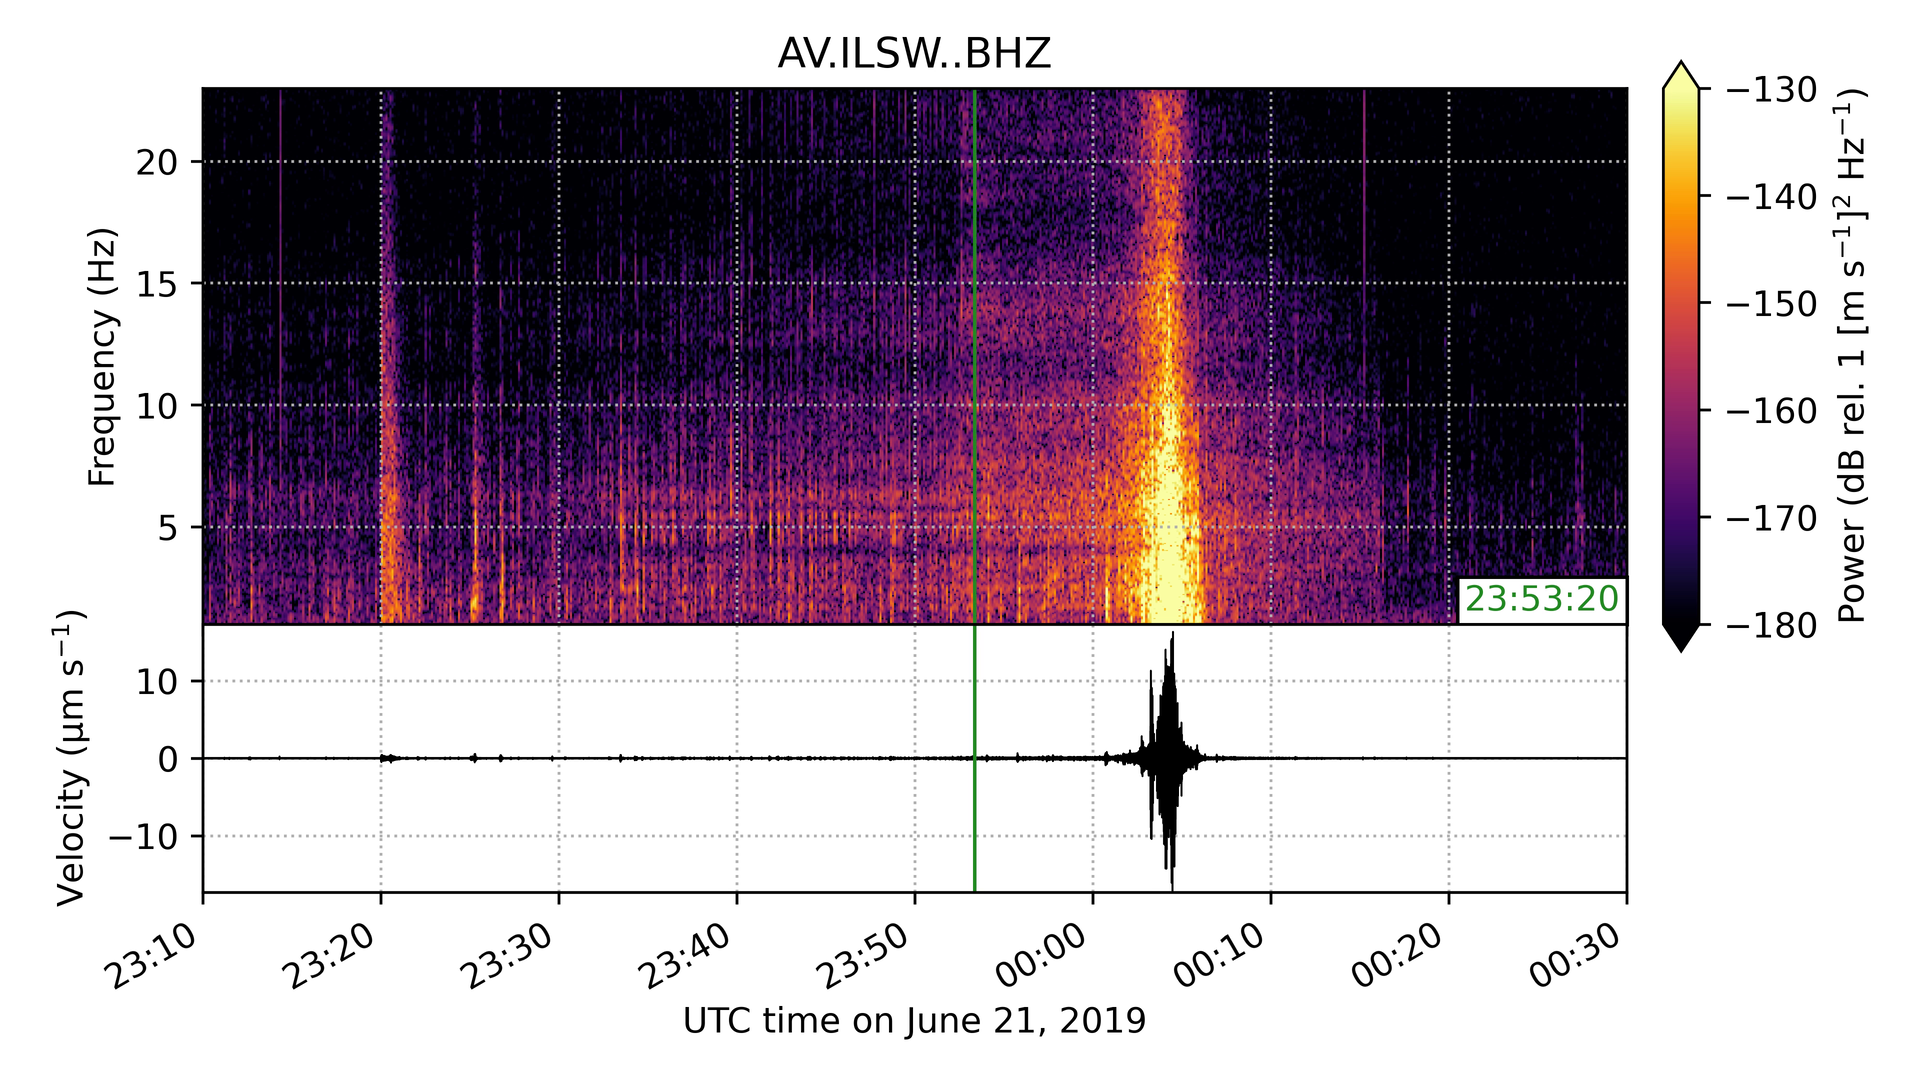
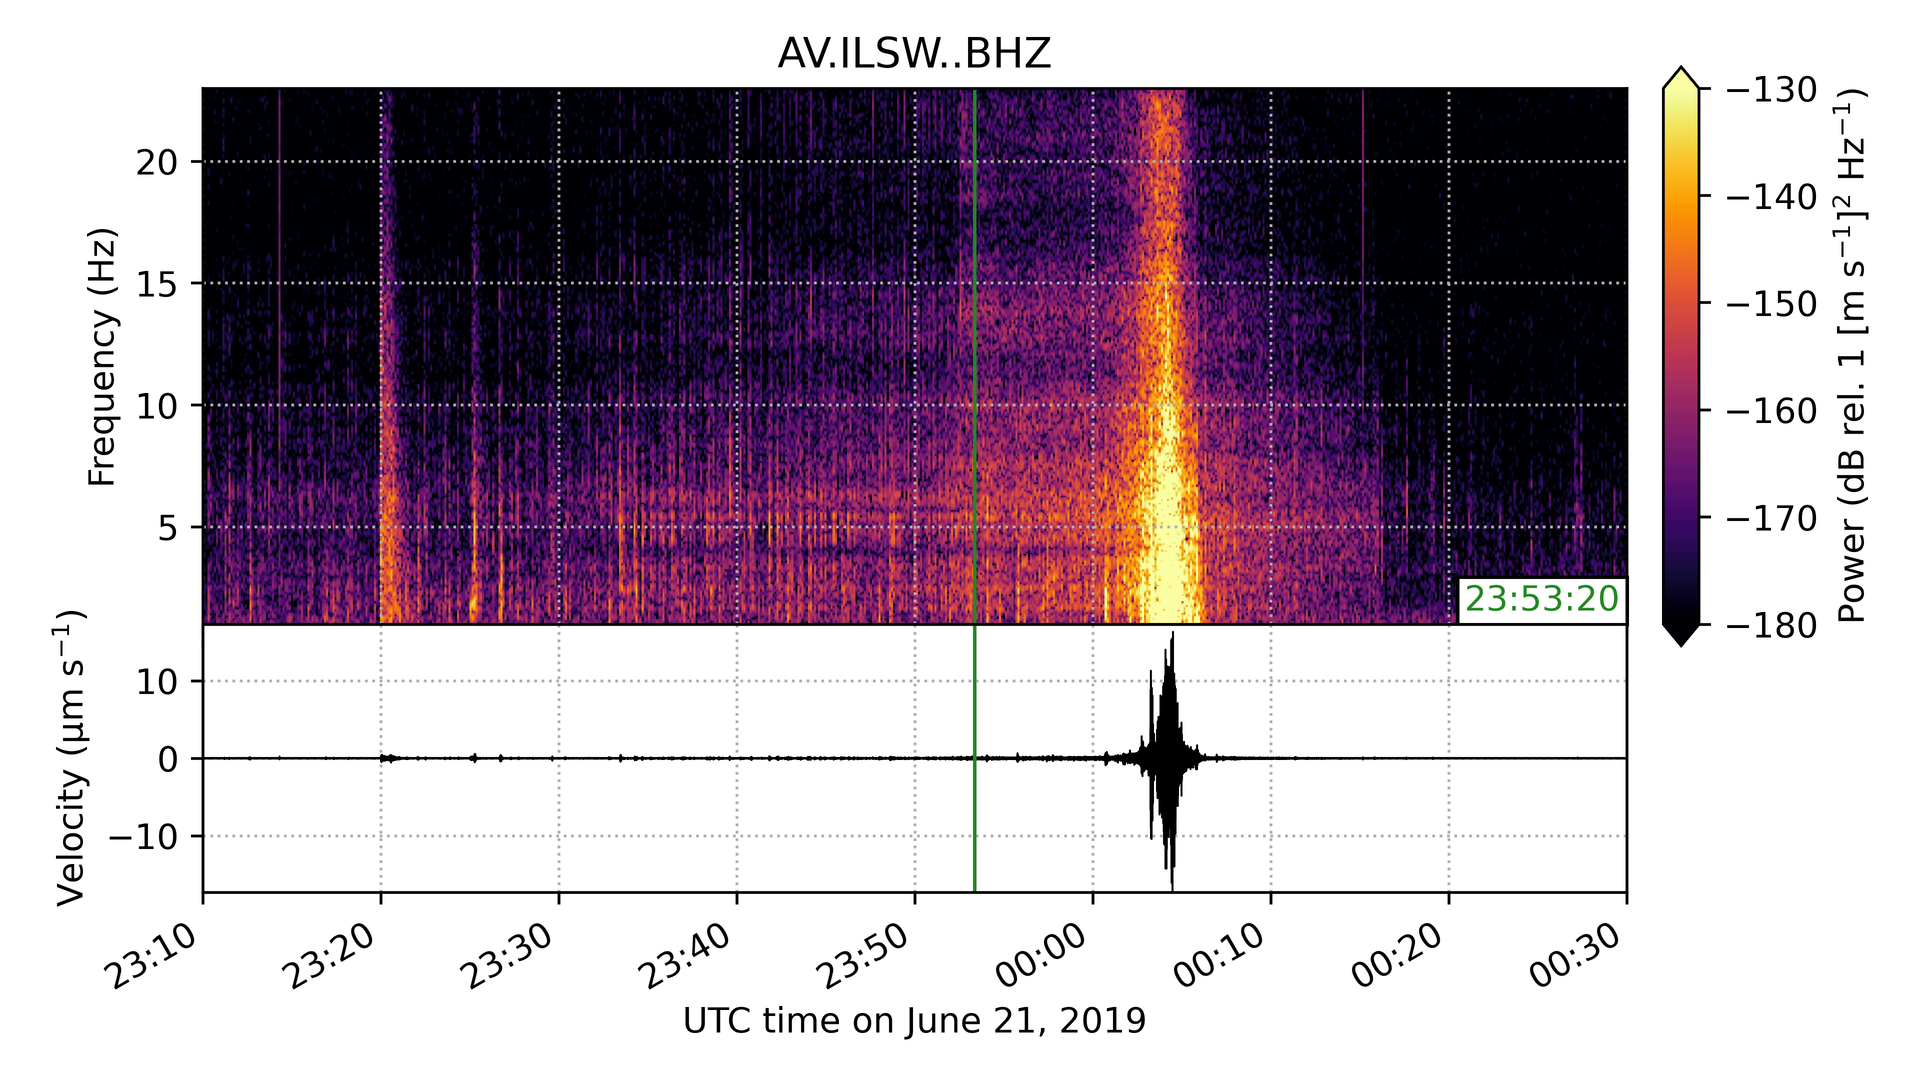
Tweak colorbar extension triangles; update screenshot

Changed region(s): [[0.0938, 0.0611, 0.8438, 0.5806]]

diff --git a/sonify/sonify.py b/sonify/sonify.py
@@ -31,7 +31,7 @@ REFERENCE_VELOCITY = 1  # [m/s]
 MS_PER_S = 1000  # [ms/s]
 
 # Colorbar extension triangle height as proportion of colorbar length
-EXTENDFRAC = 0.05
+EXTENDFRAC = 0.04
 
 
 def sonify(
